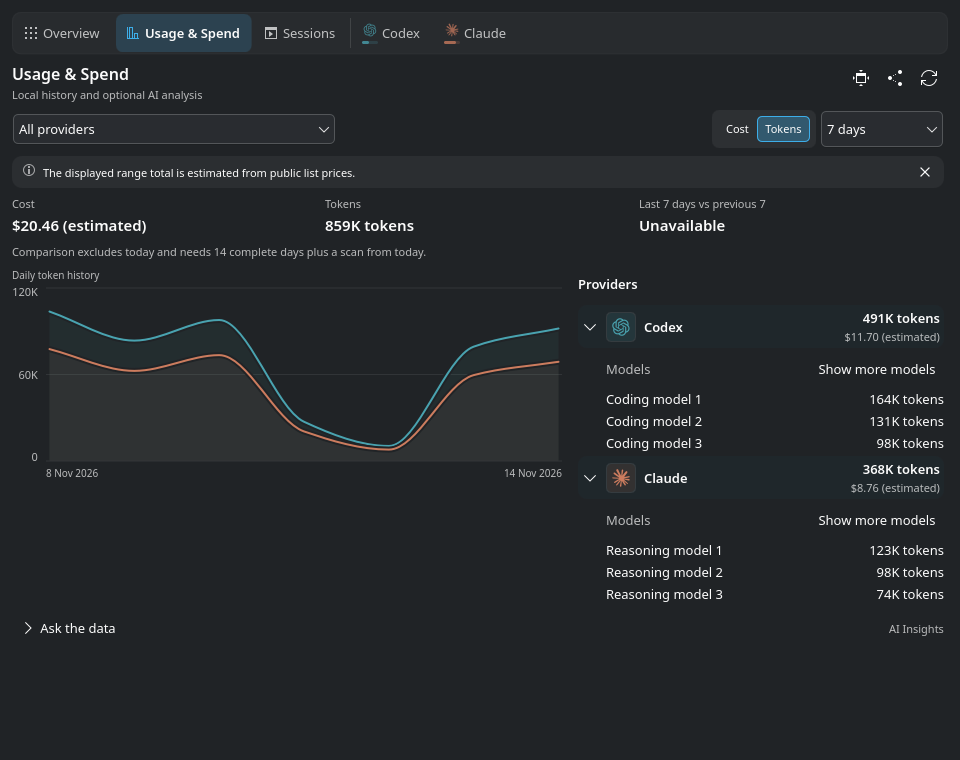
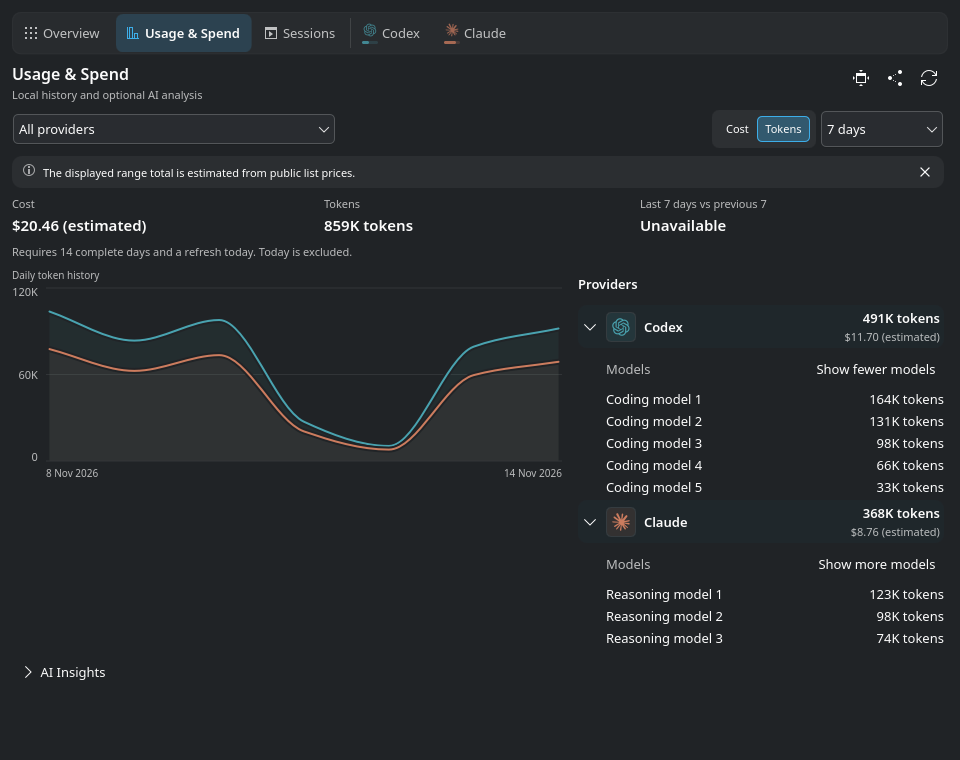
fix(usage): preserve model focus and simplify copy

diff --git a/contents/ui/components/SpendView.qml b/contents/ui/components/SpendView.qml
@@ -22,6 +22,9 @@ ColumnLayout {
     readonly property bool historyAvailable: applet.costUsageEnabled !== false || applet.identifiedTokensEnabled === true
     property bool activityExpanded: false
     property var expandedModelProviders: []
+    property var providersShowingAllModels: []
+    property string modelFocusRestoreProvider: ""
+    signal restoreModelsFocus(string provider)
     readonly property var allProviderCosts: applet.spendProviderCosts()
     readonly property var filterProviderCosts: selectedProvider
         && !allProviderCosts.some(function(item) { return item.provider === selectedProvider })
@@ -54,6 +57,30 @@ ColumnLayout {
     Layout.fillWidth: true
     Layout.fillHeight: true
     spacing: Kirigami.Units.largeSpacing
+
+    Timer {
+        id: modelFocusRestore
+        interval: 0
+        onTriggered: {
+            var provider = view.modelFocusRestoreProvider
+            view.modelFocusRestoreProvider = ""
+            if (!view.visible || !provider) return
+            if (view.presentedProviderCosts.some(function(item) { return item.provider === provider }))
+                view.restoreModelsFocus(provider)
+            else
+                providerFilter.forceActiveFocus(Qt.OtherFocusReason)
+        }
+    }
+
+    Connections {
+        target: spendProviderRepeater
+        function onItemRemoved(index: int, item: var) {
+            if (item && item.modelsActionFocused) {
+                view.modelFocusRestoreProvider = item.modelData.provider
+                modelFocusRestore.restart()
+            }
+        }
+    }
 
     onSelectionScopeChanged: {
         if (!historyChart)
@@ -543,6 +570,14 @@ ColumnLayout {
                         delegate: ColumnLayout {
                             id: providerGroup
                             required property var modelData
+                            readonly property bool modelsActionFocused: modelList.actionFocused
+                            Connections {
+                                target: view
+                                function onRestoreModelsFocus(provider: string) {
+                                    if (provider === providerGroup.modelData.provider)
+                                        modelList.restoreActionFocus()
+                                }
+                            }
                             Layout.fillWidth: true
                             Layout.minimumWidth: 0
                             spacing: Kirigami.Units.smallSpacing
@@ -686,10 +721,17 @@ ColumnLayout {
                                 }
                             }
                             Components.AnalysisModels {
+                                id: modelList
                                 applet: view.applet
                                 costs: Analysis.filterCosts(view.providerCosts, providerGroup.modelData.provider)
                                 selectedDay: view.selectedDay
                                 expanded: spendProviderCard.checked
+                                showAll: view.providersShowingAllModels.indexOf(providerGroup.modelData.provider) >= 0
+                                onShowAllRequested: function(value) {
+                                    var provider = providerGroup.modelData.provider
+                                    var remaining = view.providersShowingAllModels.filter(function(item) { return item !== provider })
+                                    view.providersShowingAllModels = value ? remaining.concat([provider]) : remaining
+                                }
                                 visible: expanded
                                 Layout.leftMargin: Kirigami.Units.iconSizes.small + Kirigami.Units.largeSpacing + Kirigami.Units.smallSpacing
                                 onRestoreFocusRequested: spendProviderCard.forceActiveFocus(Qt.OtherFocusReason)

diff --git a/scripts/smoke/Capture.qml b/scripts/smoke/Capture.qml
@@ -563,7 +563,7 @@ Item {
         if (costDetailsStep === 3) {
             verifyScenario(section.selectedDay !== null && details.modelRows.length === 0,
                 "missing daily models must not fall back to the period");
-            verifyScenario(hasText(details, i18n("No model breakdown for this day.")), "missing model notice absent");
+            verifyScenario(hasText(details, i18n("No model data for this day.")), "missing model notice absent");
             findItem(section, "providerCostMetricToggle").activated(0);
             costDetailsStep = 4;
             return false;
@@ -733,7 +733,7 @@ Item {
         if (costDetailsStep === 5) {
             verifyScenario(section.selectedDay === null && details.visible
                 && (scenario === "popup-cost-missing-tokens"
-                    ? empty.visible && empty.text === i18n("No model breakdown for this period.")
+                    ? empty.visible && empty.text === i18n("No model data for this period.")
                     : partial.visible), "period model notices did not recover after day inspection");
             return true;
         }
@@ -747,7 +747,7 @@ Item {
             for (var i = 0; i < section.tokenCost.daily.length; i++)
                 verifyScenario(section.tokenCost.daily[i].tokens === null, "gap filling invented token counts");
             if (costDetailsStep === 1) {
-                verifyScenario(empty.visible && empty.text === i18n("No model breakdown for this period.")
+                verifyScenario(empty.visible && empty.text === i18n("No model data for this period.")
                     && !partial.visible, "missing period models must have an explicit empty state");
                 findItem(section, "providerCostMetricToggle").activated(1);
             } else if (costDetailsStep === 2) {
@@ -757,7 +757,7 @@ Item {
                 chart.selectedIndex = chart.points.length - 1;
             } else {
                 verifyScenario(section.selectedDay.tokens === null && empty.visible
-                    && empty.text === i18n("No model breakdown for this day.") && !partial.visible,
+                    && empty.text === i18n("No model data for this day.") && !partial.visible,
                     "missing day models or tokens lost their unknown state");
                 section.clearDaySelection();
                 costDetailsStep = 5;

diff --git a/tests/tst_global_view_errors.qml b/tests/tst_global_view_errors.qml
@@ -231,6 +231,30 @@ TestCase {
         compare(view.selectedProvider, "");
     }
 
+    function test_modelListRefreshPreservesAllRowsAndKeyboardFocus() {
+        var rows = Array.from({length: 5}, function(_, index) {
+            return {label: "Model " + index, cost: 5 - index, tokens: index + 1, currency: "USD"};
+        });
+        var cost = {provider: "codex", models: rows, totals: {cost: 15, tokens: 15, currency: "USD"}};
+        applet.costs = [cost];
+        var view = createView("SpendView");
+        if (!view) return;
+        findChild(view, "analysisProviderToggle-codex").clicked();
+        findChild(view, "analysisModelsShowMore").forceActiveFocus(Qt.TabFocusReason);
+        keyClick(Qt.Key_Space);
+        applet.costs = [Object.assign({}, cost, {totals: {cost: 16, tokens: 16, currency: "USD"}})];
+        var section = findChild(view, "analysisModels");
+        verify(section.showAll);
+        tryCompare(findChild(section, "analysisModelsShowMore"), "activeFocus", true);
+        verify(findItem(section, function(item) { return item.text === "Model 4"; }) !== null);
+        applet.costs = [Object.assign({}, cost, {models: rows.slice(0, 2)})];
+        tryCompare(findChild(view, "analysisProviderToggle-codex"), "activeFocus", true);
+        applet.costs = [cost];
+        findChild(view, "analysisModelsShowMore").forceActiveFocus(Qt.TabFocusReason);
+        applet.costs = [{provider: "claude", models: rows, totals: cost.totals}];
+        tryCompare(findChild(view, "analysisProviderFilter"), "activeFocus", true);
+    }
+
     function test_openProviderModelsFollowDayAndRefresh() {
         var daily = {label: "2026-11-13", cost: 2, tokens: 20, currency: "USD",
             models: [{label: "Day model", cost: 2, tokens: 20, currency: "USD"}]};

diff --git a/contents/ui/components/AnalysisModels.qml b/contents/ui/components/AnalysisModels.qml
@@ -15,11 +15,18 @@ ColumnLayout {
     readonly property var models: expanded ? Analysis.modelRows(costs, selectedDay, applet.costHistoryShowsTokens)
         : ({rows: [], truncated: false})
     readonly property bool hasMore: models.rows.length > 3
+    readonly property bool actionFocused: showMore.activeFocus
     signal restoreFocusRequested()
+    signal showAllRequested(bool value)
     onHasMoreChanged: if (!hasMore && showMore.activeFocus) restoreFocusRequested()
     Layout.fillWidth: true
     Layout.minimumWidth: 0
     spacing: Kirigami.Units.smallSpacing
+
+    function restoreActionFocus() {
+        if (expanded && hasMore) showMore.forceActiveFocus(Qt.OtherFocusReason)
+        else restoreFocusRequested()
+    }
 
     RowLayout {
         Layout.fillWidth: true
@@ -36,17 +43,17 @@ ColumnLayout {
             visible: section.hasMore
             flat: true
             plainText: section.showAll ? i18n("Show fewer models") : i18n("Show more models")
-            onClicked: section.showAll = !section.showAll
+            onClicked: section.showAllRequested(!section.showAll)
         }
     }
     PlainPlasmaLabel {
-        text: i18n("Model breakdown is partial.")
+        text: i18n("Some models are not shown.")
         visible: section.models.truncated
         wrapMode: Text.Wrap
         Layout.fillWidth: true
     }
     PlainPlasmaLabel {
-        text: section.selectedDay ? i18n("No model breakdown for this day.") : i18n("No model breakdown for this period.")
+        text: section.selectedDay ? i18n("No model data for this day.") : i18n("No model data for this period.")
         visible: section.models.rows.length === 0
         opacity: applet.secondaryTextOpacity
         wrapMode: Text.Wrap

diff --git a/contents/ui/components/AnalysisAssistant.qml b/contents/ui/components/AnalysisAssistant.qml
@@ -33,16 +33,11 @@ ColumnLayout {
         DisclosureButton {
             id: disclosure
             objectName: "analysisAssistantToggle"
-            plainText: i18n("Ask the data")
+            plainText: i18n("AI Insights")
             expanded: assistant.answerExpanded
             onClicked: assistant.answerExpanded = !assistant.answerExpanded
         }
         Item { Layout.fillWidth: true }
-        PlainPlasmaLabel {
-            text: i18n("AI Insights")
-            font: Kirigami.Theme.smallFont
-            opacity: applet.secondaryTextOpacity
-        }
     }
 
     ColumnLayout {
@@ -75,7 +70,7 @@ ColumnLayout {
             RefreshButton {
                 objectName: "aiInsightsGenerateButton"
                 iconName: "tools-wizard"
-                label: i18n("Generate insight")
+                label: i18n("Generate analysis")
                 busy: applet.aiInsightsBusy
                 enabled: assistant.canGenerate || applet.aiInsightsBusy
                 onRequested: applet.generateAiInsight(question.currentValue)
@@ -86,7 +81,7 @@ ColumnLayout {
             visible: !assistant.canGenerate && !applet.aiInsightsBusy
             text: !applet.aiInsightsEnabled || !applet.aiInsightsConfigured
                 ? i18n("Choose an AI provider and model in the AI Insights settings.")
-                : i18n("Not enough current usage data for an insight yet.")
+                : i18n("Not enough current usage data to generate an analysis.")
             Layout.fillWidth: true
             wrapMode: Text.Wrap
         }

diff --git a/contents/ui/components/ProviderCostSection.qml b/contents/ui/components/ProviderCostSection.qml
@@ -300,8 +300,8 @@ ColumnLayout {
         PlainPlasmaLabel {
             objectName: "costModelsEmptyNotice"
             visible: costDrillDownSection.modelRows.length === 0
-            text: tokenCostSection.selectedDay !== null ? i18n("No model breakdown for this day.")
-                : i18n("No model breakdown for this period.")
+            text: tokenCostSection.selectedDay !== null ? i18n("No model data for this day.")
+                : i18n("No model data for this period.")
             Layout.fillWidth: true
             wrapMode: Text.Wrap
         }
@@ -309,7 +309,7 @@ ColumnLayout {
         PlainPlasmaLabel {
             objectName: "costModelsPartialNotice"
             visible: costDrillDownSection.detailData !== null && costDrillDownSection.detailData.modelsTruncated === true
-            text: i18n("Model breakdown is partial.")
+            text: i18n("Some models are not shown.")
             Layout.fillWidth: true
             wrapMode: Text.Wrap
         }

diff --git a/contents/ui/components/AnalysisSummary.qml b/contents/ui/components/AnalysisSummary.qml
@@ -23,7 +23,7 @@ GridLayout {
     rowSpacing: Kirigami.Units.smallSpacing
     visible: totals !== null
 
-    readonly property string comparisonHelp: i18n("Comparison excludes today and needs 14 complete days plus a scan from today.")
+    readonly property string comparisonHelp: i18n("Requires 14 complete days and a refresh today. Today is excluded.")
     readonly property var metrics: [
         {label: i18n("Cost"), value: summary.totals && summary.totals.cost !== null
             ? applet.qualifiedCostValue(AnalysisAmounts.metricText(applet.costNumberFormat, summary.totals.cost, summary.totals.currency, false),

diff --git a/contents/ui/configAiInsights.qml b/contents/ui/configAiInsights.qml
@@ -591,7 +591,7 @@ KCM.SimpleKCM {
         }
 
         Components.PlainControlsLabel {
-            text: i18n("Choose Generate insight under Ask the data in Usage & Spend or the fixed-provider view. Automatic generation never runs more often than the chosen interval, and ordinary usage refreshes do not trigger it.")
+            text: i18n("Choose Generate analysis under AI Insights in Usage & Spend or the fixed-provider view. Automatic generation respects the chosen interval. Usage refreshes do not trigger it.")
             font: Kirigami.Theme.smallFont
             opacity: 0.7
             Layout.fillWidth: true

diff --git a/tests/test_ui_cost.py b/tests/test_ui_cost.py
@@ -290,7 +290,7 @@ class CostTest(unittest.TestCase):
     def test_model_details(self):
         cost_drill_down_body = id_block(main_text, "costDrillDownSection")
         for fragment in (
-            'i18n("No model breakdown for this period.")',
+            'i18n("No model data for this period.")',
             "costDrillDownSection.detailData.modelsTruncated === true",
             "modelsTruncated: tokenCostSection.selectedDay.modelsTruncated",
         ):

diff --git a/docs/usage.md b/docs/usage.md
@@ -351,8 +351,10 @@ work and upstream contract requirements.
   Each provider's model list shows aligned amounts ranked by the selected
   metric. The first three models are shown initially; **Show more models**
   reveals the remaining available rows for that provider. Open providers stay
-  expanded across refreshes and day selections. Input, output and cache
-  composition stays in provider details. **Activity heatmap** expands separately.
+  expanded across refreshes and day selections, including **Show more models**
+  choices. Refreshing preserves focus on the model-list action, with a visible
+  provider header or filter as the fallback when that action disappears.
+  Input, output and cache composition stays in provider details. **Activity heatmap** expands separately.
   **Last 7 days vs previous 7** excludes today and requires fourteen complete
   days plus a current scan. Short, partial, stale, or ambiguous histories show
   unavailable instead of extrapolating, with the history requirements shown below
@@ -1601,7 +1603,7 @@ already measured; forecasts come from the CLI pace data, and comparisons appear
 only when the history supports them. Quota signals use the measured percentage
 without rounding across warning or exhaustion thresholds. It is off by default.
 While it is off, the widget builds no AI data, starts no AI process, contacts no AI service, and
-hides saved answers. The **Ask the data** disclosure can still link to setup.
+hides saved answers. The **AI Insights** disclosure can still link to setup.
 The [AI Insights reference](ai-insights.md) documents the data
 and request contracts.
 
@@ -1623,9 +1625,9 @@ previous test result. Disabling AI Insights on this settings page retires any
 pending connection test or wallet operation and ignores its late reply. The assistant
 and settings reject success replies from a helper that exits with an error or
 crashes; a failed generation keeps the previous insight available.
-Open **Ask the data** in **Usage & Spend** and choose **Summarize usage**,
+Open **AI Insights** in **Usage & Spend** and choose **Summarize usage**,
 **What changed this week?**, **How much headroom remains?**, or **What should I
-investigate?**. Then press **Generate insight**. The assistant shows the saved
+investigate?**. Then press **Generate analysis**. The assistant shows the saved
 question, full summary and highlights, generation time, service, model, and age.
 It replaces the former Overview card and separate analysis page. A widget fixed
 to one provider in Diagnostics shows the enabled assistant on that provider page.

diff --git a/docs/ai-insights.md b/docs/ai-insights.md
@@ -8,7 +8,7 @@ describes setup and behavior for users.
 
 ## Presentation
 
-**Ask the data** expands an assistant inside Usage & Spend. A fixed-provider
+**AI Insights** expands an assistant inside Usage & Spend. A fixed-provider
 widget without global navigation shows it in the provider view when enabled.
 The assistant replaces the former Overview card and separate analysis page.
 Disclosure and chart navigation never generate an answer. Manual generation
@@ -399,7 +399,7 @@ table, honoring the response's `Retry-After`, and a choice that finished with
   a long model list opens as a height-capped, scrolling menu. The wide scenario
   also edits a tested model and disables the feature during a connection test,
   proving that the old verdict and late replies are discarded. The
-  assistant scenarios start generation through the explicit **Generate insight**
+  assistant scenarios start generation through the explicit **Generate analysis**
   control and verify integrated highlights, translated answers, plain text,
   mismatched caches, failures, and no generation on navigation.
   `tst_ai_insights_view.qml` exercises disclosure, guided intent selection,

diff --git a/docs/cost-history.md b/docs/cost-history.md
@@ -29,7 +29,10 @@ inspection reports each provider for the selected day. Provider pages retain bar
 Each provider row expands its own ranked model list inline, initially showing
 three rows. Show more models reveals that provider's remaining bounded rows
 without fetching data. Opening a provider does not change the chart filter or
-switch tabs. Open rows survive refreshes and day selection; the provider dropdown
+switch tabs. Open rows and Show more models choices survive refreshes and day
+selection. Refreshing preserves keyboard focus on the model-list action, or
+returns it to the provider header if that action disappears. If the provider
+disappears, focus returns to the provider filter. The provider dropdown
 owns chart filtering. Token composition remains in provider details, while
 partial model coverage and excluded-request notices remain visible inline.
 
